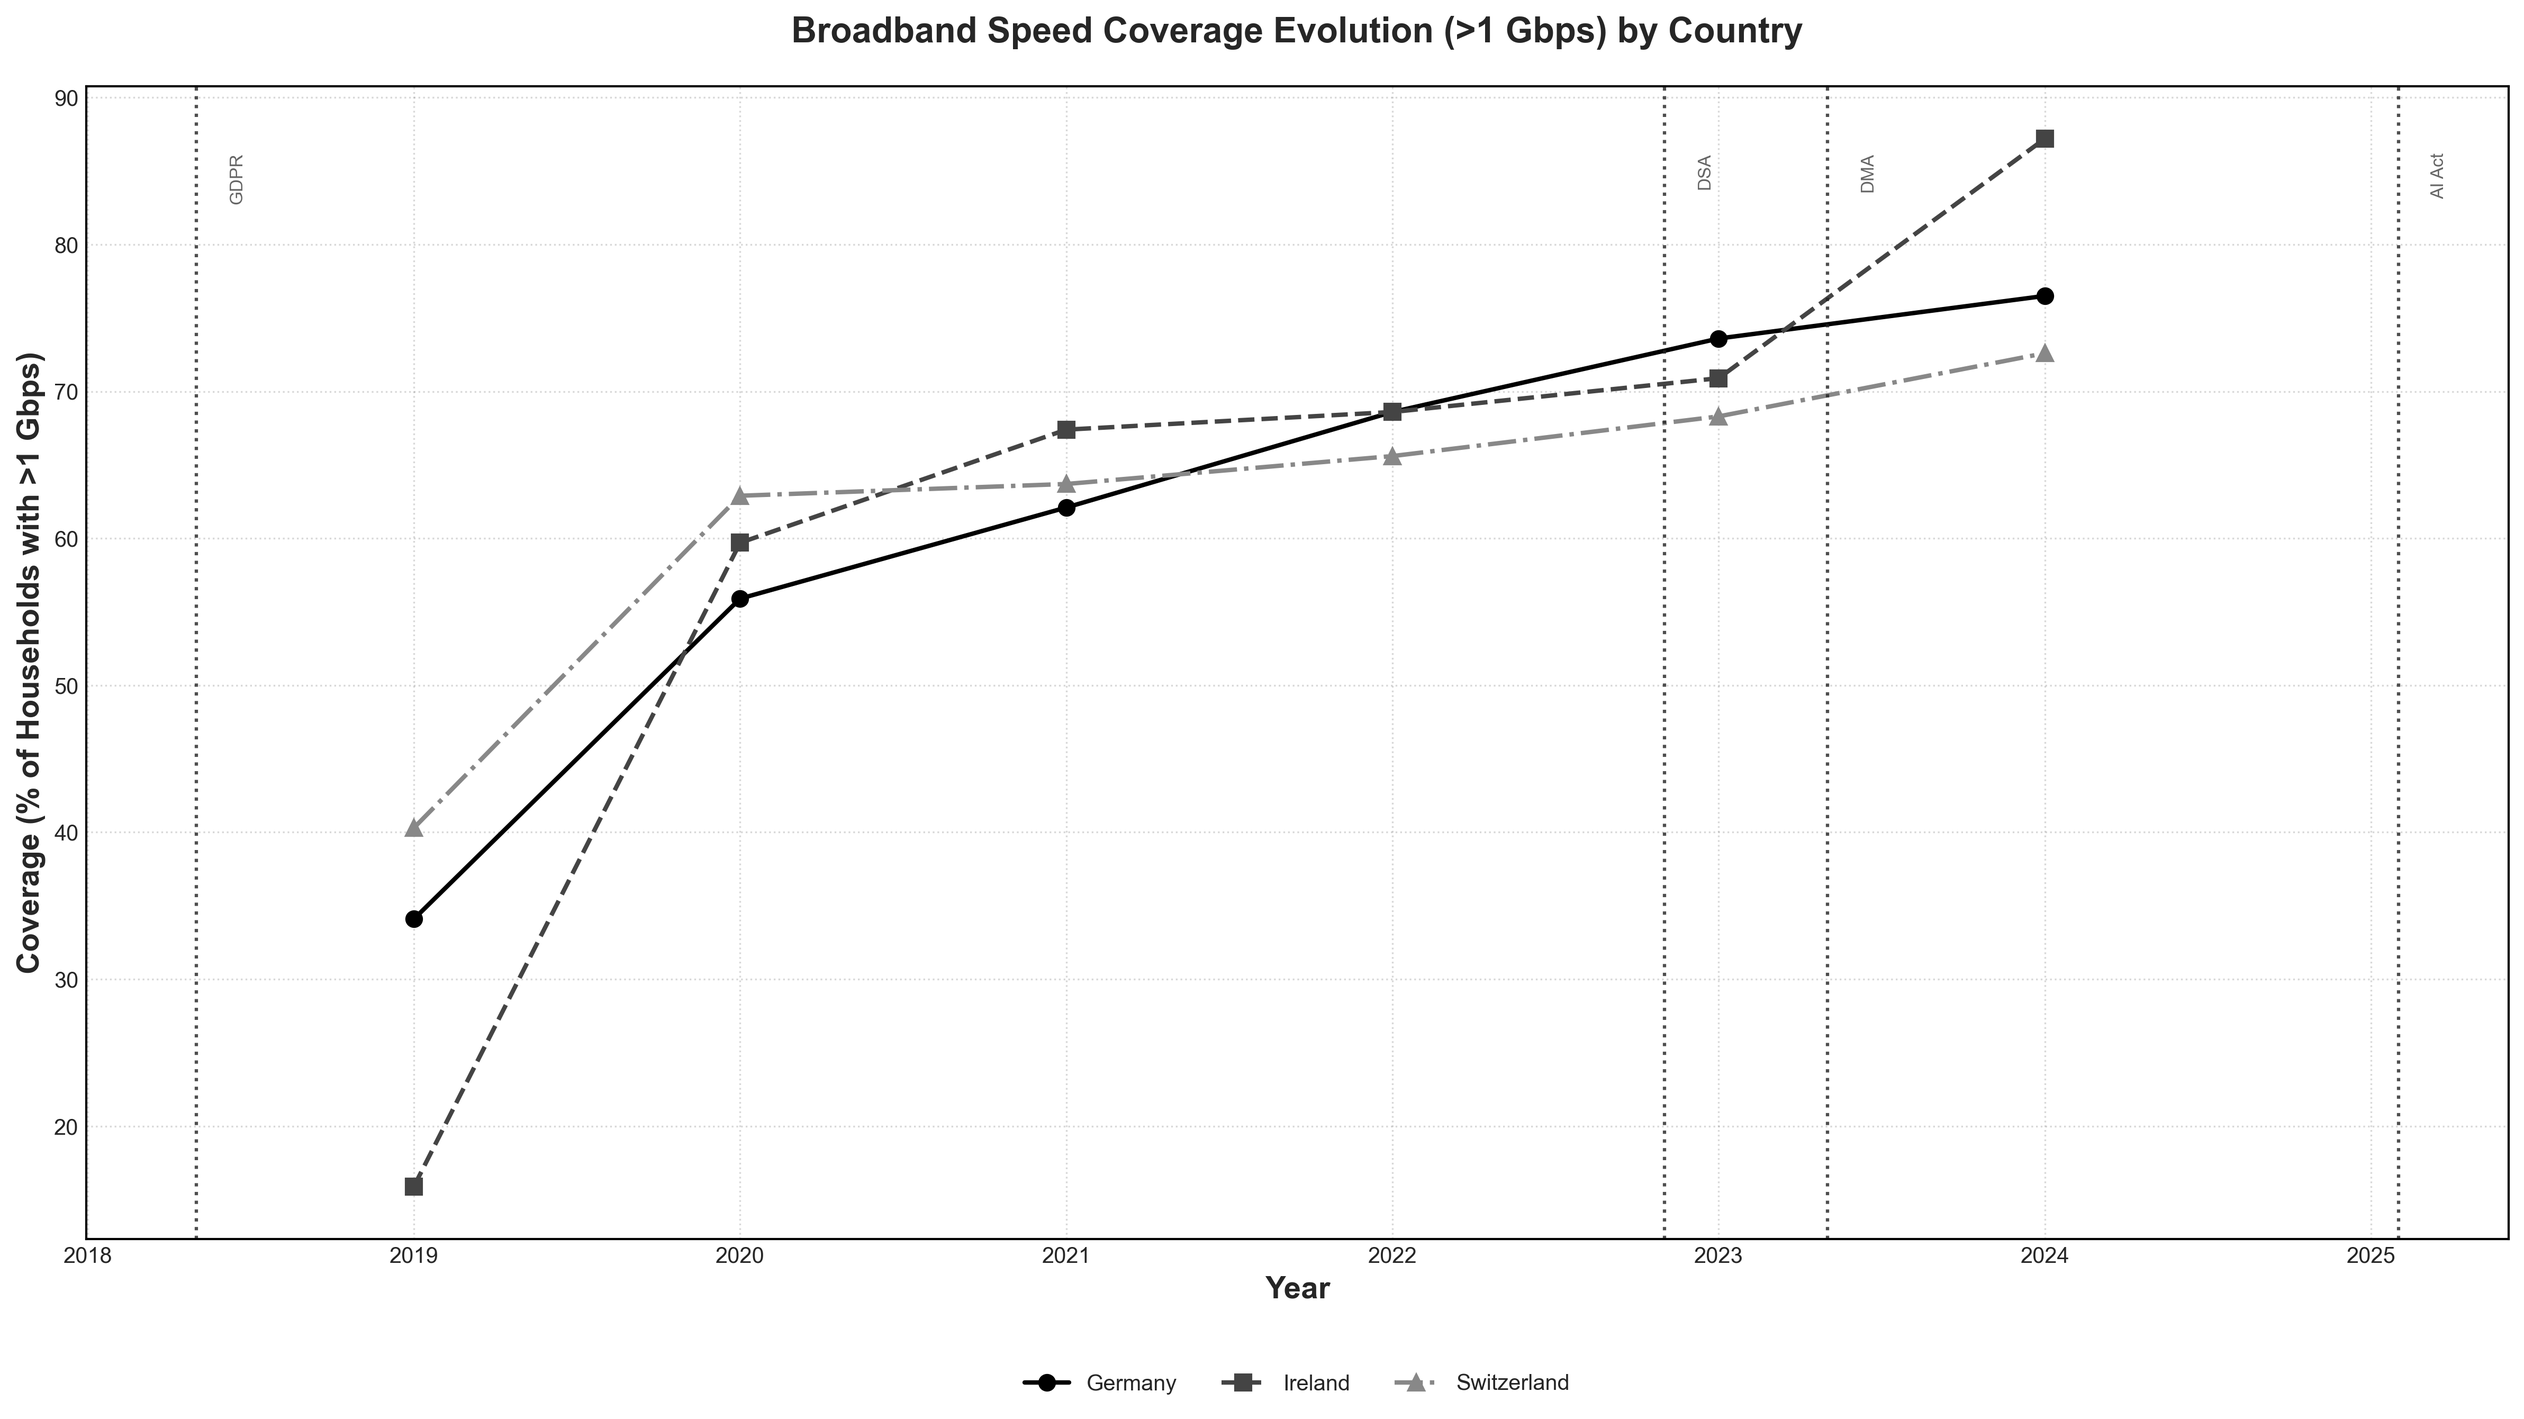
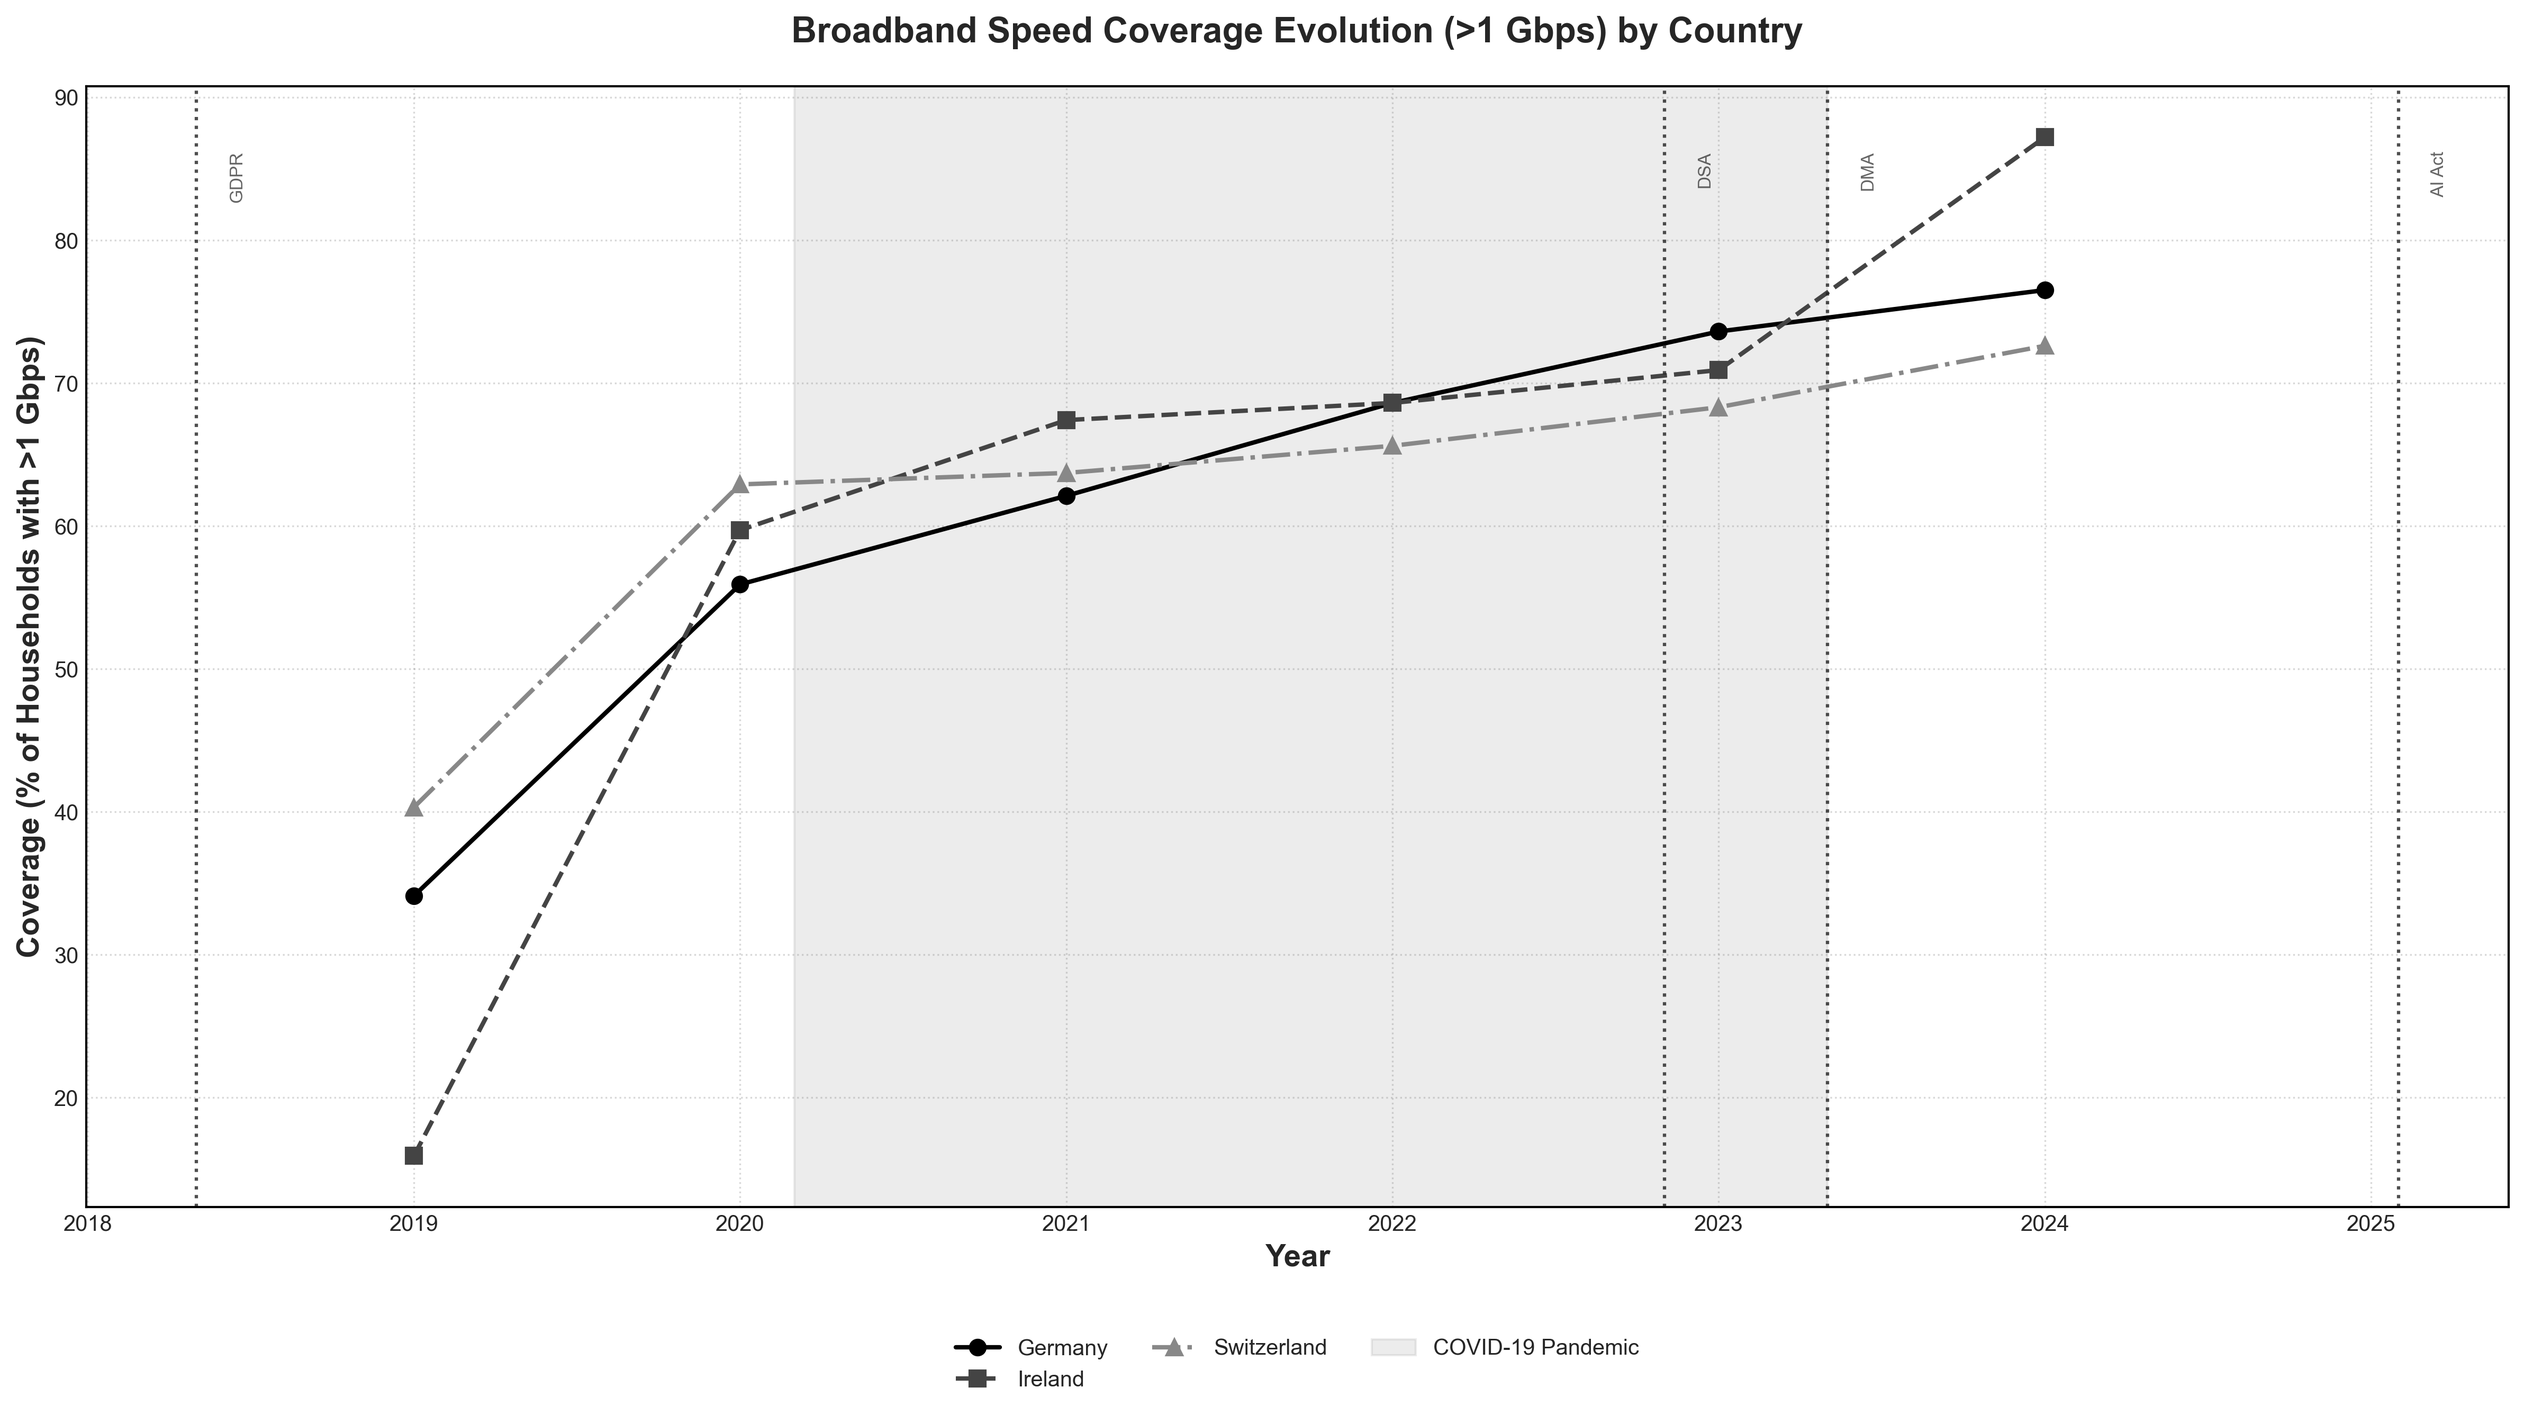
printer friendly

diff --git a/index.html b/index.html
@@ -317,7 +317,10 @@
                 <li><a href="#graph16">16. Broadband Prices by Country</a></li>
                 <li><a href="#graph17">17. Three-Country Internet Usage</a></li>
                 <li><a href="#graph18">18. Three-Country Cloud Adoption</a></li>
-                <li><a href="#graph19">19. R&D Investment Acceleration Index</a></li>
+                <li><a href="#graph19">19. R&D Investment Acceleration Index (GERD)</a></li>
+                <li><a href="#graph19a">19a. R&D Investment Acceleration Index (BRED)</a></li>
+                <li><a href="#graph19b">19b. R&D Investment Acceleration Index (GOVERD)</a></li>
+                <li><a href="#graph19c">19c. R&D Investment Acceleration Index (HRED)</a></li>
                 <li><a href="#graph20">20. YoY Growth Around Regulations</a></li>
                 <li><a href="#graph21">21. Digital Infrastructure Maturity</a></li>
                 <li><a href="#graph22">22. Traffic Growth Before/After</a></li>
@@ -440,9 +443,27 @@
         </div>
         
         <div id="graph19" class="graph-section">
-            <h2>19. R&D Investment Acceleration Index</h2>
-            <p>A cumulative index showing how R&D investment across all sectors has accelerated over time (2010 = 100). This normalized view helps identify whether the pace of R&D investment has changed following regulatory implementations.</p>
+            <h2>19. R&D Investment Acceleration Index (GERD)</h2>
+            <p>A cumulative index showing how total R&D investment (GERD) has accelerated over time for each country individually (2010 = 100). This normalized view helps identify whether the pace of overall R&D investment has changed following regulatory implementations and allows for direct comparison of growth trajectories across Germany, Ireland, and Switzerland.</p>
             <img src="graph_19_rd_acceleration_index.png" alt="R&D Acceleration Index">
+        </div>
+        
+        <div id="graph19a" class="graph-section">
+            <h2>19a. Business R&D Investment Acceleration Index (BRED)</h2>
+            <p>A cumulative index showing how business sector R&D investment (BRED) has accelerated over time for each country individually (2010 = 100). This reveals how private enterprise investment in research and development has evolved in response to regulatory requirements and market conditions, with particular relevance to compliance technologies and data protection systems.</p>
+            <img src="graph_19a_bred_acceleration_index.png" alt="BRED Acceleration Index">
+        </div>
+        
+        <div id="graph19b" class="graph-section">
+            <h2>19b. Government R&D Investment Acceleration Index (GOVERD)</h2>
+            <p>A cumulative index showing how government R&D spending (GOVERD) has accelerated over time for each country individually (2010 = 100). This tracks public sector commitment to research funding and may reflect government responses to regulatory needs in areas such as cybersecurity, AI governance, and digital infrastructure.</p>
+            <img src="graph_19b_goverd_acceleration_index.png" alt="GOVERD Acceleration Index">
+        </div>
+        
+        <div id="graph19c" class="graph-section">
+            <h2>19c. Higher Education R&D Investment Acceleration Index (HRED)</h2>
+            <p>A cumulative index showing how higher education R&D investment (HRED) has accelerated over time for each country individually (2010 = 100). Universities play a crucial role in fundamental research and workforce training for the digital economy, making this metric important for understanding long-term innovation capacity.</p>
+            <img src="graph_19c_hred_acceleration_index.png" alt="HRED Acceleration Index">
         </div>
         
         <div id="graph20" class="graph-section">

diff --git a/run.py b/run.py
@@ -41,8 +41,17 @@ REGULATION_COLORS = {
     'AI Act': '#888888'
 }
 
+# COVID-19 pandemic period
+COVID_START = datetime(2020, 3, 11)
+COVID_END = datetime(2023, 5, 1)
+
 def add_regulation_lines(ax, start_year=2010):
-    """Add vertical lines for regulations with text labels next to them"""
+    """Add vertical lines for regulations with text labels next to them and COVID-19 shaded region"""
+    # Add COVID-19 shaded region
+    covid_start_x = COVID_START.year + (COVID_START.month - 1) / 12
+    covid_end_x = COVID_END.year + (COVID_END.month - 1) / 12
+    ax.axvspan(covid_start_x, covid_end_x, alpha=0.15, color='gray', label='COVID-19 Pandemic')
+    
     for name, date in REGULATIONS.items():
         if date.year >= start_year:
             x_pos = date.year + (date.month - 1) / 12
@@ -568,38 +577,135 @@ plt.close()
 # ============================================================
 fig, ax = plt.subplots(figsize=(16, 9))
 
-for dataset_name, marker, label in [('gerd', 'o', 'GERD'), ('bred', 's', 'BRED'), 
-                                     ('goverd', '^', 'GOVERD'), ('hred', 'D', 'HRED')]:
-    df_temp = prepare_oecd_data(data[dataset_name])
-    all_countries = []
-    for country in ['Germany', 'Ireland', 'Switzerland']:
-        country_data = df_temp[df_temp['Time period'] == country].sort_values('Year').copy()
-        if not country_data.empty:
-            all_countries.append(country_data)
-    
-    if all_countries:
-        combined = pd.concat(all_countries).groupby('Year')['Value'].mean().reset_index()
-        combined = combined.dropna()
+df_gerd = prepare_oecd_data(data['gerd'])
+
+for country in ['Germany', 'Ireland', 'Switzerland']:
+    country_data = df_gerd[df_gerd['Time period'] == country].sort_values('Year').copy()
+    if not country_data.empty and len(country_data) > 0:
+        country_data = country_data.reset_index(drop=True)
+        country_data['Cumulative_Index'] = 100.0
+        for i in range(1, len(country_data)):
+            prev_idx = country_data.loc[i-1, 'Cumulative_Index']
+            growth = country_data.loc[i, 'Value']
+            if not np.isnan(growth):
+                country_data.loc[i, 'Cumulative_Index'] = prev_idx * (1 + growth/100)
         
-        # Calculate cumulative index
-        if len(combined) > 0:
-            combined['Index'] = 100.0
-            for i in range(1, len(combined)):
-                combined.loc[combined.index[i], 'Index'] = combined.loc[combined.index[i-1], 'Index'] * (1 + combined.loc[combined.index[i], 'Value']/100)
-            
-            ax.plot(combined['Year'], combined['Index'], 
-                   marker=marker, linewidth=2, markersize=6, label=label,
-                   color='black' if marker == 'o' else '#333333' if marker == 's' else '#666666' if marker == '^' else '#999999')
+        ax.plot(country_data['Year'], country_data['Cumulative_Index'], 
+               marker=country_markers[country], linewidth=2, markersize=7,
+               linestyle=country_styles[country],
+               label=country, color=country_colors[country])
 
 add_regulation_lines(ax)
 ax.set_xlabel('Year', fontsize=14, fontweight='bold')
 ax.set_ylabel('Investment Index (2010 = 100)', fontsize=14, fontweight='bold')
-ax.set_title('R&D Investment Acceleration Index (Three-Country Average)', 
+ax.set_title('R&D Investment Acceleration Index (GERD) by Country', 
             fontsize=16, fontweight='bold', pad=20)
-ax.legend(loc='upper center', bbox_to_anchor=(0.5, -0.1), ncol=4, framealpha=0.9)
+ax.legend(loc='upper center', bbox_to_anchor=(0.5, -0.1), ncol=3, framealpha=0.9)
 ax.grid(True, alpha=0.3)
 plt.tight_layout()
 plt.savefig('graph_19_rd_acceleration_index.png', dpi=300, bbox_inches='tight')
+plt.close()
+
+# ============================================================
+# 19a. BRED Investment Acceleration Index
+# ============================================================
+fig, ax = plt.subplots(figsize=(16, 9))
+
+df_bred = prepare_oecd_data(data['bred'])
+
+for country in ['Germany', 'Ireland', 'Switzerland']:
+    country_data = df_bred[df_bred['Time period'] == country].sort_values('Year').copy()
+    if not country_data.empty and len(country_data) > 0:
+        country_data = country_data.reset_index(drop=True)
+        country_data['Cumulative_Index'] = 100.0
+        for i in range(1, len(country_data)):
+            prev_idx = country_data.loc[i-1, 'Cumulative_Index']
+            growth = country_data.loc[i, 'Value']
+            if not np.isnan(growth):
+                country_data.loc[i, 'Cumulative_Index'] = prev_idx * (1 + growth/100)
+        
+        ax.plot(country_data['Year'], country_data['Cumulative_Index'], 
+               marker=country_markers[country], linewidth=2, markersize=7,
+               linestyle=country_styles[country],
+               label=country, color=country_colors[country])
+
+add_regulation_lines(ax)
+ax.set_xlabel('Year', fontsize=14, fontweight='bold')
+ax.set_ylabel('Investment Index (2010 = 100)', fontsize=14, fontweight='bold')
+ax.set_title('Business R&D Investment Acceleration Index (BRED) by Country', 
+            fontsize=16, fontweight='bold', pad=20)
+ax.legend(loc='upper center', bbox_to_anchor=(0.5, -0.1), ncol=3, framealpha=0.9)
+ax.grid(True, alpha=0.3)
+plt.tight_layout()
+plt.savefig('graph_19a_bred_acceleration_index.png', dpi=300, bbox_inches='tight')
+plt.close()
+
+# ============================================================
+# 19b. GOVERD Investment Acceleration Index
+# ============================================================
+fig, ax = plt.subplots(figsize=(16, 9))
+
+df_goverd = prepare_oecd_data(data['goverd'])
+
+for country in ['Germany', 'Ireland', 'Switzerland']:
+    country_data = df_goverd[df_goverd['Time period'] == country].sort_values('Year').copy()
+    if not country_data.empty and len(country_data) > 0:
+        country_data = country_data.reset_index(drop=True)
+        country_data['Cumulative_Index'] = 100.0
+        for i in range(1, len(country_data)):
+            prev_idx = country_data.loc[i-1, 'Cumulative_Index']
+            growth = country_data.loc[i, 'Value']
+            if not np.isnan(growth):
+                country_data.loc[i, 'Cumulative_Index'] = prev_idx * (1 + growth/100)
+        
+        ax.plot(country_data['Year'], country_data['Cumulative_Index'], 
+               marker=country_markers[country], linewidth=2, markersize=7,
+               linestyle=country_styles[country],
+               label=country, color=country_colors[country])
+
+add_regulation_lines(ax)
+ax.set_xlabel('Year', fontsize=14, fontweight='bold')
+ax.set_ylabel('Investment Index (2010 = 100)', fontsize=14, fontweight='bold')
+ax.set_title('Government R&D Investment Acceleration Index (GOVERD) by Country', 
+            fontsize=16, fontweight='bold', pad=20)
+ax.legend(loc='upper center', bbox_to_anchor=(0.5, -0.1), ncol=3, framealpha=0.9)
+ax.grid(True, alpha=0.3)
+plt.tight_layout()
+plt.savefig('graph_19b_goverd_acceleration_index.png', dpi=300, bbox_inches='tight')
+plt.close()
+
+# ============================================================
+# 19c. HRED Investment Acceleration Index
+# ============================================================
+fig, ax = plt.subplots(figsize=(16, 9))
+
+df_hred = prepare_oecd_data(data['hred'])
+
+for country in ['Germany', 'Ireland', 'Switzerland']:
+    country_data = df_hred[df_hred['Time period'] == country].sort_values('Year').copy()
+    if not country_data.empty and len(country_data) > 0:
+        country_data = country_data.reset_index(drop=True)
+        country_data['Cumulative_Index'] = 100.0
+        for i in range(1, len(country_data)):
+            prev_idx = country_data.loc[i-1, 'Cumulative_Index']
+            growth = country_data.loc[i, 'Value']
+            if not np.isnan(growth):
+                country_data.loc[i, 'Cumulative_Index'] = prev_idx * (1 + growth/100)
+        
+        ax.plot(country_data['Year'], country_data['Cumulative_Index'], 
+               marker=country_markers[country], linewidth=2, markersize=7,
+               linestyle=country_styles[country],
+               label=country, color=country_colors[country])
+
+add_regulation_lines(ax)
+ax.set_xlabel('Year', fontsize=14, fontweight='bold')
+ax.set_ylabel('Investment Index (2010 = 100)', fontsize=14, fontweight='bold')
+ax.set_title('Higher Education R&D Investment Acceleration Index (HRED) by Country', 
+            fontsize=16, fontweight='bold', pad=20)
+ax.legend(loc='upper center', bbox_to_anchor=(0.5, -0.1), ncol=3, framealpha=0.9)
+ax.grid(True, alpha=0.3)
+plt.tight_layout()
+plt.savefig('graph_19c_hred_acceleration_index.png', dpi=300, bbox_inches='tight')
 plt.close()
 
 # ============================================================
